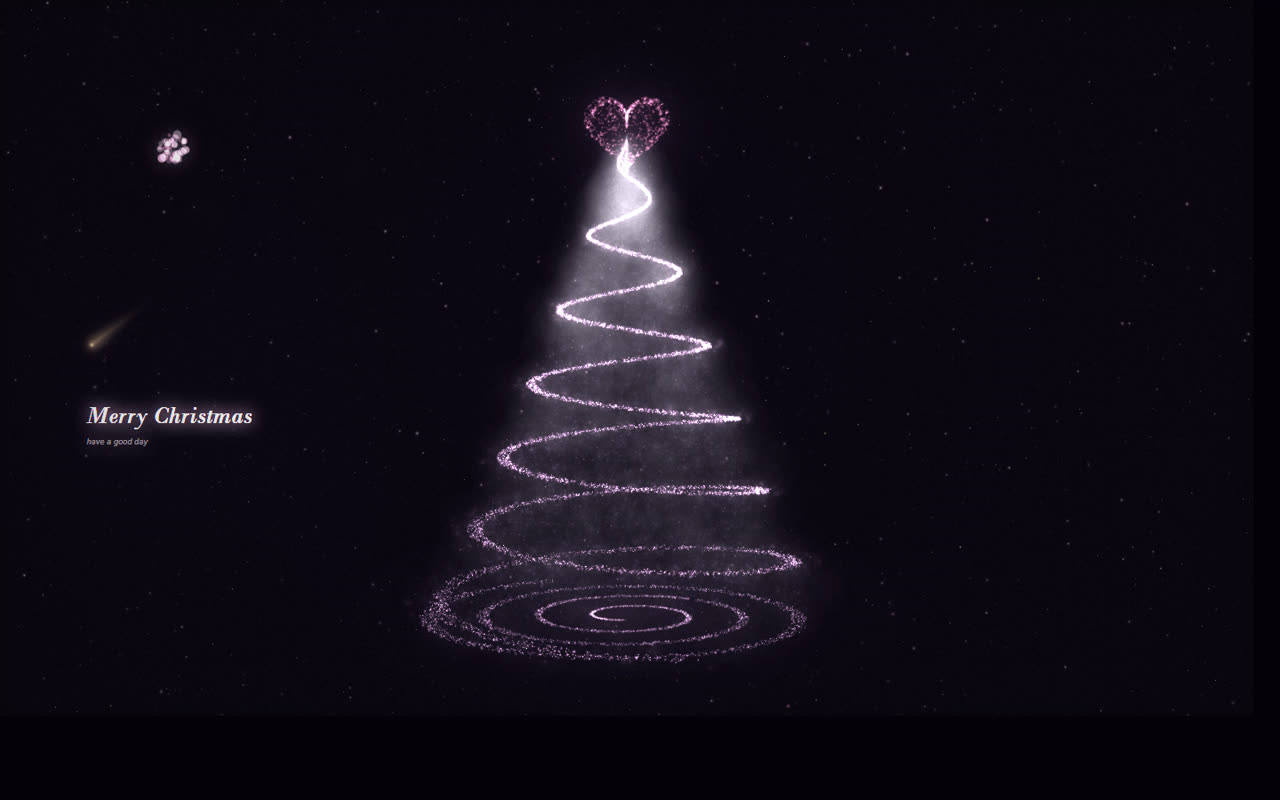
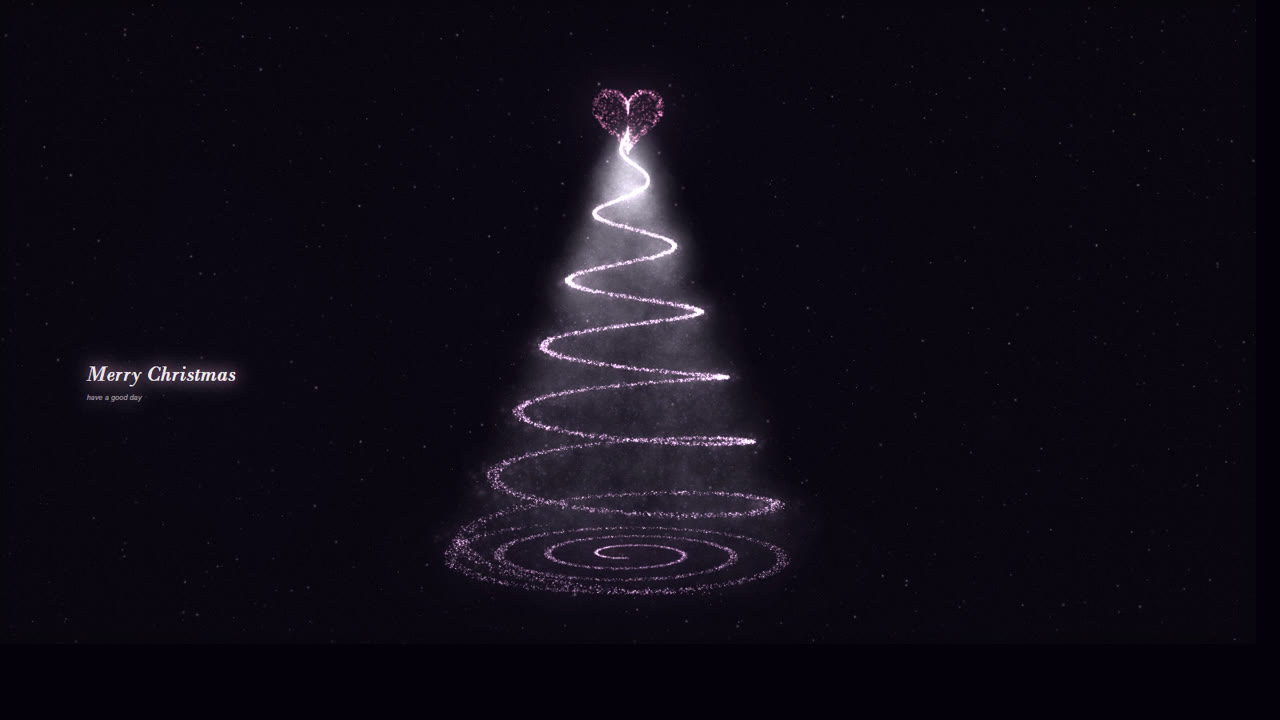
手机端加密粒子、提亮：Q 改按画布像素计算，小屏亮度补偿

diff --git a/index.html b/index.html
@@ -80,7 +80,7 @@
 
   /* ------------------------- 画布尺寸 ------------------------- */
 
-  let W = 0, H = 0, DPR = 1, Q = 1;
+  let W = 0, H = 0, DPR = 1, Q = 1, BRIGHT = 1;
   let TH = 0, R0 = 0, TOPY = 0, BASEY = 0, K = 0;
 
   const CAM = { pitch: 0.205, cp: 0, sp: 0, dist: 0, foc: 0, cx: 0, by: 0 };
@@ -102,8 +102,10 @@
     // 螺旋圈数随高宽比自适应，保证每圈的坡度一致（读起来才像树）
     CFG.turns = clamp(TH / (R0 * 0.40), 6.5, 13);
 
-    const area = (cw * ch) / 1_050_000;
-    Q = clamp(Math.sqrt(area), 0.5, 1.3);
+    // 粒子数量按"画布像素"算密度：手机 DPR 高，若按 CSS 尺寸算会明显偏稀、偏暗
+    Q = clamp(Math.sqrt((W * H) / 1_250_000), 0.66, 1.5);
+    // 小屏亮度补偿：手机屏小、像素少，同样的粒子密度看起来更暗
+    BRIGHT = clamp(1.26 - (cw / 1450) * 0.26, 1.0, 1.26);
 
     CAM.cp = Math.cos(CAM.pitch);
     CAM.sp = Math.sin(CAM.pitch);
@@ -544,8 +546,8 @@
   function buildGradients() {
     gradVignette = ctx.createRadialGradient(W / 2, H * 0.42, K * 0.08, W / 2, H * 0.50, Math.max(W, H) * 0.80);
     gradVignette.addColorStop(0, 'rgba(0,0,0,0)');
-    gradVignette.addColorStop(0.70, 'rgba(0,0,0,0.20)');
-    gradVignette.addColorStop(1, 'rgba(0,0,0,0.74)');
+    gradVignette.addColorStop(0.70, 'rgba(0,0,0,0.17)');
+    gradVignette.addColorStop(1, 'rgba(0,0,0,0.68)');
 
     // 文案背后的柔和压暗，保证任何分辨率下都清楚
     const sx = W * 0.068 + K * 0.13;
@@ -640,7 +642,7 @@
       let a = p.a * e;
       if (p.tw) a *= 0.74 + 0.26 * Math.sin(time * p.tws + p.ph);
       const sz = p.sz * pop * 1.1;
-      ctx.globalAlpha = clamp(a, 0, 1);
+      ctx.globalAlpha = clamp(a * BRIGHT, 0, 1);
       ctx.drawImage(
         SPR.heart,
         hx + p.hx * R * pop - sz / 2,
@@ -751,9 +753,9 @@
     bx.filter = 'none';
 
     ctx.globalCompositeOperation = 'lighter';
-    ctx.globalAlpha = 0.26;
+    ctx.globalAlpha = 0.26 * BRIGHT;
     ctx.drawImage(bc, 0, 0, W, H);
-    ctx.globalAlpha = 0.14;
+    ctx.globalAlpha = 0.14 * BRIGHT;
     ctx.drawImage(bc, 0, 0, W, H);
     ctx.globalAlpha = 1;
     ctx.globalCompositeOperation = 'source-over';
@@ -785,6 +787,7 @@
     const breathe = 1 + CFG.breathe * Math.sin(time * 0.85);
     const spin = time * CFG.spin + 0.6;
     const introGlow = 0.6 + 0.4 * clamp(time / CFG.intro, 0, 1);
+    const BR = BRIGHT;   // 小屏补偿：手机屏幕小、像素少，同样密度看起来更暗
 
     ctx.globalCompositeOperation = 'source-over';
     ctx.globalAlpha = 1;
@@ -796,10 +799,10 @@
     drawSky(time);
     drawMeteors(time);
     drawBaseGlow();
-    drawLayer(S.pool, time, spin * 1.35, breathe, 1, SPR.core);
-    drawLayer(S.mist, time, spin, breathe, 1, SPR.haze);
-    drawLayer(S.dust, time, spin, breathe, 1, SPR.dust);
-    drawLayer(S.band, time, spin, breathe, introGlow, SPR.core);
+    drawLayer(S.pool, time, spin * 1.35, breathe, BR, SPR.core);
+    drawLayer(S.mist, time, spin, breathe, BR, SPR.haze);
+    drawLayer(S.dust, time, spin, breathe, BR, SPR.dust);
+    drawLayer(S.band, time, spin, breathe, introGlow * BR, SPR.core);
     drawHeart(time);
     drawBursts(time);
     drawText(time);
